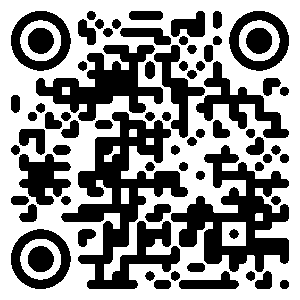
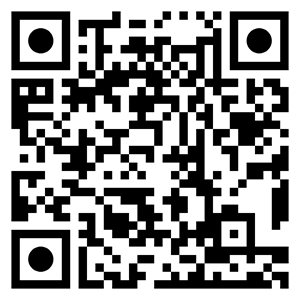
reelreelreel

diff --git a/about.html b/about.html
@@ -256,7 +256,7 @@ body {
     <h1>My Reel</h1>
     Alternatively, you can <b>click</b> on the QR code to visit.
     <br>
-    <a href="oops.html" target="_blank"><img src="media/frame.png" class="center"></a>
+    <a href="https://vimeo.com/1123724404?fl=pl&fe=sh" target="_blank"><img src="media/frame.png" class="center"></a>
     I also love music. Every month I curate my own playlists with the songs I've been listening to. Below, is the most <b>recent</b> one, and you can find the rest in the links as well.
     <br>
   <iframe data-testid="embed-iframe" style="border-radius:12px; margin-top: 10px; margin-bottom: 10px;" src="https://open.spotify.com/embed/playlist/5jjqy8MA3UDVtkbIflkjwP?utm_source=generator" width="100%" height="152" frameBorder="0" allowfullscreen="" allow="autoplay; clipboard-write; encrypted-media; fullscreen; picture-in-picture" loading="lazy"></iframe>

diff --git a/index.html b/index.html
@@ -178,7 +178,7 @@ body {
     <h1>My Reel</h1>
     Alternatively, you can <b>click</b> on the QR code to visit.
     <br>
-    <a href="oops.html" target="_blank"><img src="media/frame.png" class="center"></a>
+    <a href="https://vimeo.com/1123724404?fl=pl&fe=sh" target="_blank"><img src="media/frame.png" class="center"></a>
     <i>lately, I've been thinking about:</i>
     <br>
     <p style="font-size: 14px;">

diff --git a/work.html b/work.html
@@ -249,7 +249,7 @@ body {
     <h1>My Reel</h1>
     Alternatively, you can <b>click</b> on the QR code to visit.
     <br>
-    <a href="oops.html" target="_blank"><img src="media/frame.png" class="center"></a>
+    <a href="https://vimeo.com/1123724404?fl=pl&fe=sh" target="_blank"><img src="media/frame.png" class="center"></a>
     <i>CURRENTLY, I'm working on:</i>
     <br>
     <p style="font-size: 14px;">
